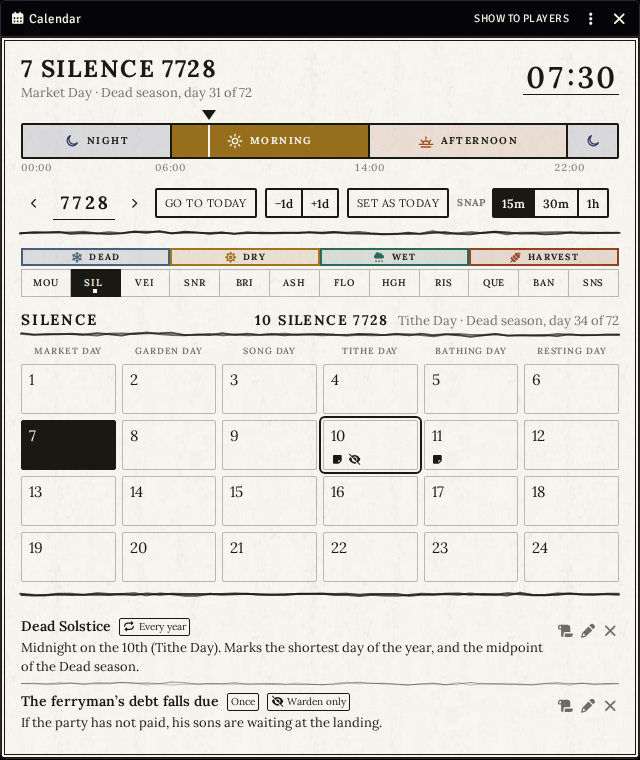
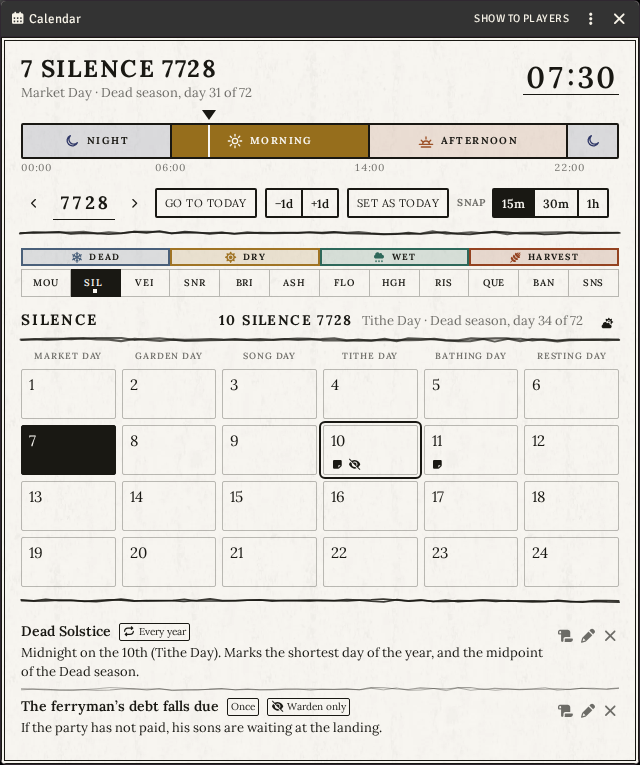
README and user guide cover what changed since 0.0.9: any gear unknown to its holder behind a Guise, the dungeon row's action list, Shake off panic and movement undo, the creator's editable Bond and Omen, the date in the chat box, and players walking into stores; the character sheet, the store and t

diff --git a/docs/wiki.md b/docs/wiki.md
@@ -109,12 +109,15 @@ roll; delete the note to roll again. The Reclamation has no season, so it has no
 day's colour only: the weather a journey travels in is the journey's own roll. The four tables are
 in the **Warden Tables** compendium too, to roll by hand.
 
+The date and time are also printed in the chat box, between its Format menu and its text, for
+everyone.
+
 During a **journey** the journey spends the time, so these controls are switched off and clicking
 the dial opens the journey. The calendar is Foundry's own world time, so a time-of-day lighting
 module follows it.
 
 <p align="center">
-  <img src="images/calendar.png" alt="The calendar: today and the time, the watch dial, the seasons over the months, a month grid with note marks, and the selected day's notes" width="70%">
+  <img src="images/calendar.png" alt="The calendar: today and the time, the watch dial, the seasons over the months, a month grid with note marks, the weather cloud beside the selected date, and that day's notes" width="70%">
 </p>
 
 ### Settings
@@ -169,12 +172,13 @@ and **Next** to move between them:
    a list of names, your starting gear and two small tables to roll on.
 2. **Name**: pick one of the Background's names, roll one, or type your own.
 3. **Attributes**: press **Roll 3d6 × 3**. If you like, pick two attributes and **Swap** them,
-   once. Roll your **HP** here too.
+   once. Roll your **HP** here too. The help mark on each box says what it measures.
 4. **Background tables**: roll each of the Background's two tables. When a result names an item,
    you get that item.
 5. **Traits**: press **Roll all**, or roll the eight traits one by one.
 6. **Bond**: roll a Bond and an age. Tick **Youngest character** if that is you, and you roll an
-   **Omen** too.
+   **Omen** too. A roll fills the Bond's or the Omen's box, and what the box holds is what the
+   character keeps: reword the roll, or write your own.
 7. **Review**: check everything, then press **Create Character**. Anything you left blank is rolled
    for you.
 
@@ -237,7 +241,7 @@ the **Other Backgrounds** list.
 ## 3. The character sheet
 
 <p align="center">
-  <img src="images/character-sheet.png" alt="A character sheet: three attributes, HP, armor, and ten inventory slots with fatigue markers" width="70%">
+  <img src="images/character-sheet.png" alt="A character sheet: three attributes, HP, armor, the Stores button beside the gold, and ten inventory slots with fatigue markers" width="70%">
 </p>
 
 ### The top of the sheet
@@ -277,7 +281,8 @@ itself is for reading and playing at the table.
 ### Gold
 
 The gold amount sits at the end of the row of tabs. Click it and type a new total. Coins are real
-items that take space, so see [§11](#11-stores-and-coin) for how they are carried.
+items that take space, so see [§11](#11-stores-and-coin) for how they are carried. While the
+Warden lets players visit a store, a **Stores** button sits beside it.
 
 ### Tabs
 
@@ -579,14 +584,14 @@ every other store, after a warning.
 - The Warden can also open a store on your screen with **Open to players**. It joins your list until
   you close the window, even if it is not one you can visit on your own.
 - The **For sale** tab lists the shelves. The **Yours** tab lists your own things that have a
-  price.
+  price. Both are in alphabetical order.
 - Add things to the **cart** with **+** or by dragging them. The bottom of the window adds up the
   **gold** and the **slots** you'd need.
 - **Confirm** stays greyed out, with the reason, while you are short of coin or the things won't
   fit. Once it goes through, the gold and items are moved for you.
 
 <p align="center">
-  <img src="images/store-cart.png" alt="A village store: items for sale on the left, the shopping cart on the right, gold and slot totals at the foot" width="80%">
+  <img src="images/store-cart.png" alt="The Outfitter, opened from a player's sheet: the store picker at the top, items for sale on the left, the cart on the right, gold and slot totals at the foot" width="80%">
 </p>
 
 ---
@@ -670,23 +675,24 @@ for the place), **Faction**, **Realm** and **Forest**.
   <img src="images/name-generator.png" alt="The Name Generator on its Realm tab: a realm name, the die and the word behind each part, and the recent names" width="60%">
 </p>
 
-### Unknown relics
+### Unknown gear
 
-A relic a character finds is not always one they understand ("When a character first acquires a
-Relic they are not familiar with…", Warden's Guide, Knowledge). On a relic's **Details** tab the
-Warden has a **Warden** zone: switch on **Unknown to its holder**, then write what they call it
-(**Known as**) and what they can see of it.
+A thing a character finds is not always one they understand ("When a character first acquires a
+Relic they are not familiar with…", Warden's Guide, Knowledge). Any gear can be hidden this way: a
+relic, a strange potion, a sword with a past. The **eye** in the item sheet's title bar, the
+Warden's alone, hides it from its holder. A **Guise** tab then opens, where you write what they
+see in its place: the name they call it (**Known as**), its **Picture**, and its appearance.
 
-- Until it is revealed, every player sees that name and that appearance: on the sheet, in Barter,
-  in the Store, and in any chat card about it. Its picture is the real one, because what it looks
-  like is never the mystery.
+- Until it is revealed, every player sees the guise: on the sheet, in Barter, in a Store, inside a
+  container and in any chat card about it. Its die, armor, charges and Recharge are not shown.
 - It **cannot be used**: no equip, no charges, no damage, no post, no hotbar macro, and its sheet is
-  read-only with no Recharge tab. The holder can still carry it, set it aside, stow it, hand it
-  over or drop it. It is not offered for sale in a Store.
+  read-only. The holder can still carry it, set it aside, stow it, hand it over or drop it, but
+  not sell it in a Store.
+- A store's shelf can sell a gear that is unknown: the buyer sees its guise and pays its price.
 - Experimenting with it is a conversation: the player says what they try, and you rule — a WIL save
   if the fiction wants one.
-- You see the real name everywhere, with an **Unknown to them** tag. **Reveal the relic**, in the
-  relic's title-bar menu, switches it off and posts a card saying what it turned out to be.
+- You see the real name everywhere, with an **Unknown to them** tag. The eye again reveals it and
+  posts a card saying what it turned out to be.
 - The real data never leaves the client, so a player who opens the console can read it. This is a
   table tool, not a lock.
 
@@ -801,13 +807,18 @@ the exploration.
 ### Each turn
 
 - Each row has a line for what that character **does this turn**. Players fill in their own
-  character's line. The actions from the rules (search, listen, force a door…) are offered as
-  suggestions, but anything goes.
-- Beside it is **how far the token has moved** this turn: green within torchlight's 40 ft, amber
-  and bold with a running figure past it, red past the 120 ft an action covers. Moving further is
-  allowed; it means the party is moving quickly.
-- The **✓** marks the character as having acted, as in a fight.
+  character's line. The **list** button beside it offers the actions from the rules (search,
+  listen, force a door, move quickly…), each with its rule written under its name; picking one
+  writes it on the line, and the line stays free text, so anything goes.
+- A **Panicked** character also finds **Shake off panic** in that list: it rolls the WIL save,
+  and on a success the condition ends.
+- Beside the name is **how far the token has moved** this turn: green within torchlight's 40 ft,
+  amber and bold with a running figure past it, red past the 120 ft an action covers. Moving
+  further is allowed; it means the party is moving quickly. Moved too far? The **undo** arrow
+  beside the distance takes the token back to where the turn began, for its owner and the Warden.
+- The switch at the end of the row marks the character as having acted, as in a fight.
 - A new turn clears the lines, the marks and the distances.
+- The help mark at the top of the tracker sums up the turn; clicking it opens the Rules Summary.
 
 ### Dungeon Events
 

diff --git a/README.md b/README.md
@@ -8,7 +8,7 @@ counts. This system brings **Cairn Second Edition** to [Foundry VTT](https://fou
 it handles the bookkeeping so your table can focus on the story.
 
 <p align="center">
-  <img src="docs/images/character-sheet.png" alt="A character sheet: three attributes, HP, armor, and ten inventory slots with fatigue markers" width="49%">
+  <img src="docs/images/character-sheet.png" alt="A character sheet: three attributes, HP, armor, the Stores button beside the gold, and ten inventory slots with fatigue markers" width="49%">
   <img src="docs/images/character-creator.png" alt="The character creator's first step: choosing one of the twenty backgrounds" width="49%">
 </p>
 
@@ -52,7 +52,7 @@ tracker follows Cairn's rules: sides take turns, with no initiative roll.
 
 <p align="center">
   <img src="docs/images/chat-cards.png" alt="Chat cards: a damage roll with an Apply button, the hit overflowing into STR with Roll STR save and Reverse the hit, a failed STR save, a Scar notice, and a wilderness encounter" width="30%">
-  <img src="docs/images/store-cart.png" alt="A village store: items for sale on the left, the shopping cart on the right, gold and slot totals at the foot" width="66%">
+  <img src="docs/images/store-cart.png" alt="The Outfitter, opened from a player's sheet: the store picker at the top, items for sale on the left, the cart on the right, gold and slot totals at the foot" width="66%">
 </p>
 
 ### A toolbox for the Warden
@@ -65,13 +65,15 @@ tracker follows Cairn's rules: sides take turns, with no initiative roll.
   getting lost and wilderness events, spends Rations and Fatigue on everyone's sheet, and an
   encounter can drop its creatures straight onto the map.
 - **Dungeons**: the combat tracker runs exploration turn by turn. It shows what each character
-  is doing, how far their token moved, and when the rules call for a Dungeon Event. If a fight
-  breaks out, the dungeon picks up again on the same turn once it ends.
+  is doing, offers the rulebook's actions with their rules, tracks how far each token moved (with
+  an undo), and says when the rules call for a Dungeon Event. If a fight breaks out, the dungeon
+  picks up again on the same turn once it ends.
 - **Stores**: ten small ones come ready, from the Weaponsmith to the Tavern. Stock your own by
-  dragging items onto its shelves, and open it on every player's screen. Players fill a cart, and the store checks both their gold *and* their free slots before
-  anything changes hands.
-- **Unknown relics**: a relic can hide behind the name and looks the Warden gives it, unusable
-  until it is revealed.
+  dragging items onto its shelves, open it on every player's screen, or let players walk in from
+  their own sheet. Players fill a cart, and the store checks both their gold *and* their free
+  slots before anything changes hands.
+- **Unknown gear**: any item, from a relic to a strange potion, can hide behind the name, picture
+  and appearance the Warden gives it, unusable until it is revealed.
 - **Factions** that play: agents in rank order, an agenda to tick off, and buttons for faction
   actions and opposed saves.
 - **A party sheet** that shows everyone's HP, attributes and load at a glance, plus the followers
@@ -88,7 +90,7 @@ tracker follows Cairn's rules: sides take turns, with no initiative roll.
   <img src="docs/images/faction-page.png" alt="A faction page: traits, advantages, agents, a partly completed agenda and obstacles" width="70%">
 </p>
 <p align="center">
-  <img src="docs/images/calendar.png" alt="The calendar: today and the time, the watch dial, the seasons over the months, a month grid with note marks, and the selected day's notes" width="49%">
+  <img src="docs/images/calendar.png" alt="The calendar: today and the time, the watch dial, the seasons over the months, a month grid with note marks, the weather cloud beside the selected date, and that day's notes" width="49%">
   <img src="docs/images/name-generator.png" alt="The Name Generator on its Realm tab: a realm name, the die and the word behind each part, and the recent names" width="45%">
 </p>
 
